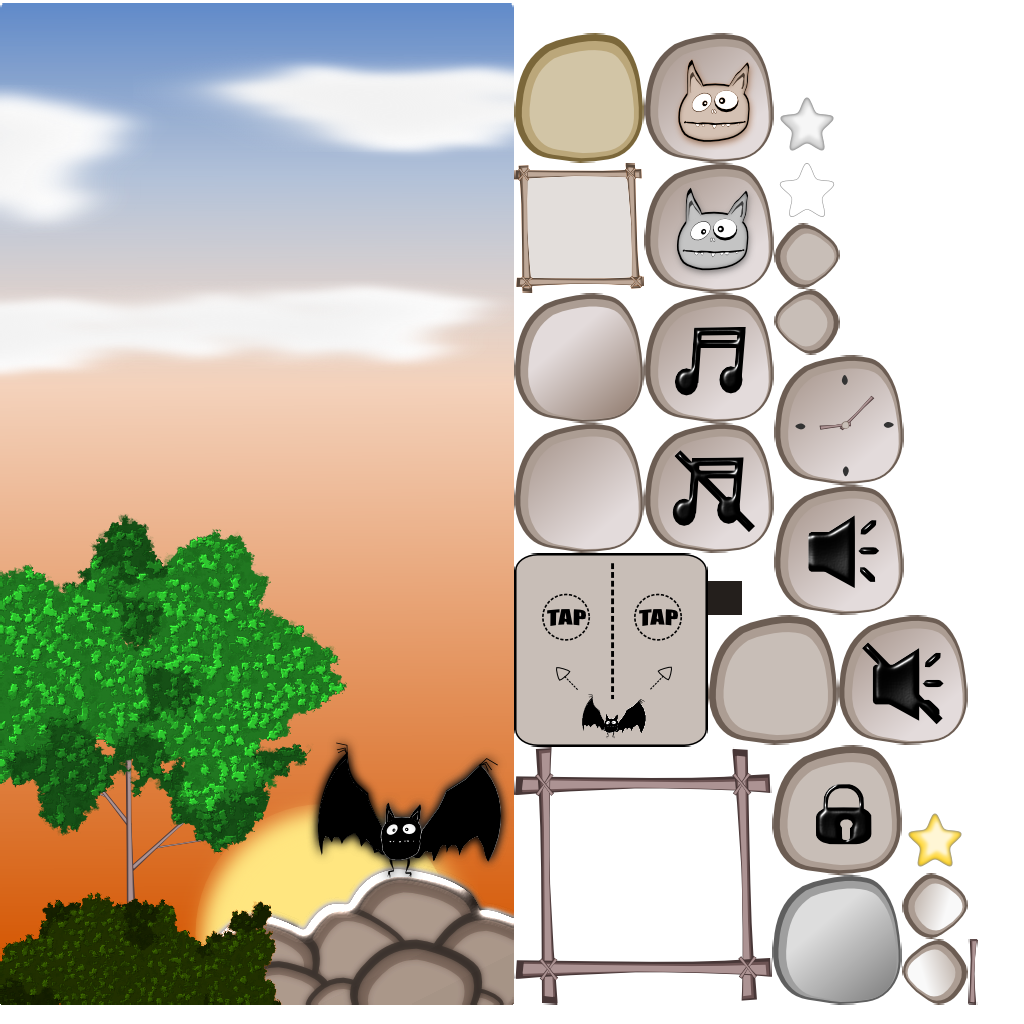
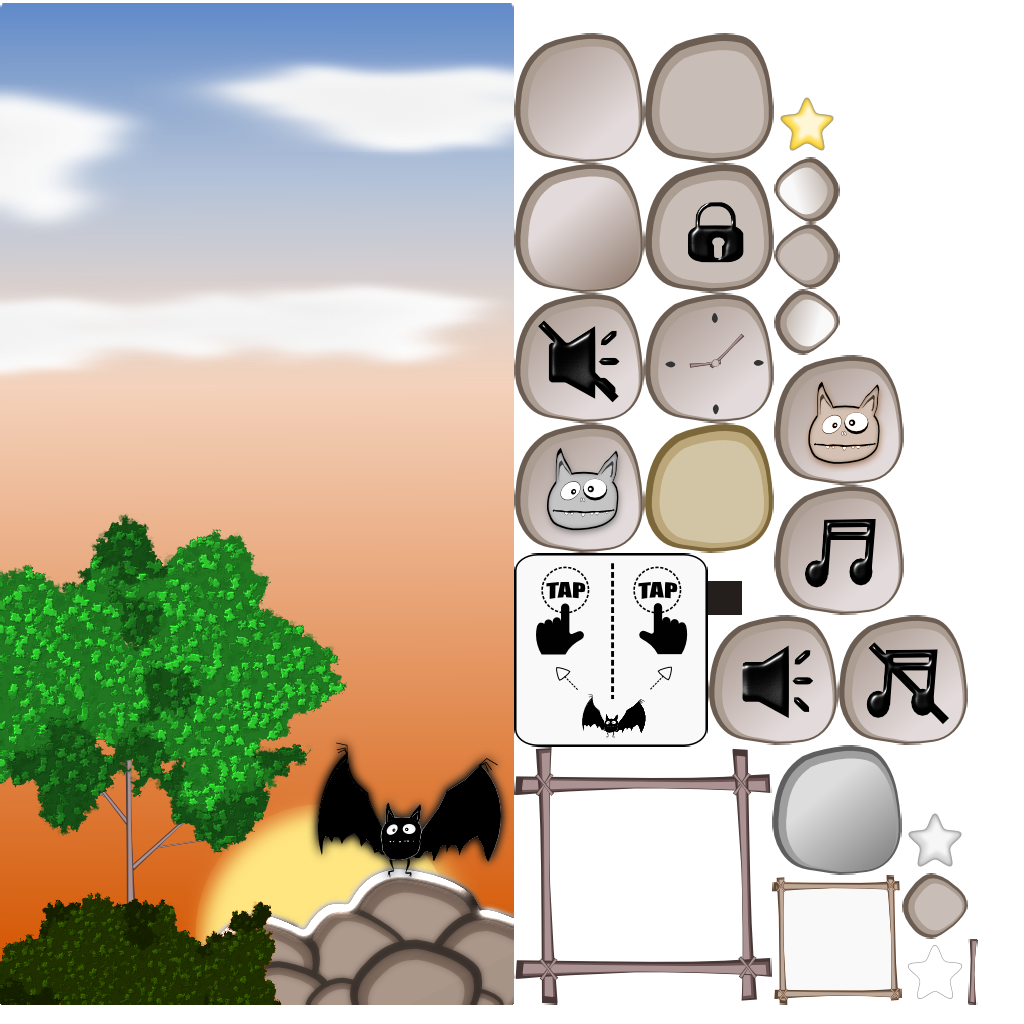
Fix in score screen and updated UI

Changed region(s): [[0.5, 0.0312, 0.9688, 1.0], [0.7812, 0.375, 0.875, 0.4688]]

diff --git a/core/src/com/mpv/screens/stages/LevelStage.java b/core/src/com/mpv/screens/stages/LevelStage.java
@@ -4,7 +4,6 @@ import com.badlogic.gdx.Input.Keys;
 import com.badlogic.gdx.scenes.scene2d.InputEvent;
 import com.badlogic.gdx.scenes.scene2d.InputListener;
 import com.badlogic.gdx.scenes.scene2d.Stage;
-import com.badlogic.gdx.scenes.scene2d.ui.Button;
 import com.badlogic.gdx.scenes.scene2d.ui.ButtonGroup;
 import com.badlogic.gdx.scenes.scene2d.ui.Image;
 import com.badlogic.gdx.scenes.scene2d.ui.Table;
@@ -12,7 +11,6 @@ import com.badlogic.gdx.scenes.scene2d.ui.TextButton;
 import com.badlogic.gdx.scenes.scene2d.ui.Widget;
 import com.badlogic.gdx.scenes.scene2d.utils.ClickListener;
 import com.mpv.data.Assets;
-import com.mpv.data.Const;
 import com.mpv.data.GVars;
 import com.mpv.data.Settings;
 import com.mpv.game.world.GameObject;
@@ -24,12 +22,12 @@ public class LevelStage extends Stage {
 	
 	public LevelStage() {
 		super();
-		float buttonSize=Const.PLAYER_SIZE*GVars.BOX_TO_WORLD/1.6f;
+		float buttonSize=getWidth()/6f;
 		Table mainTable = new Table();
 		Table buttonTable = new Table();
 		Widget emptyWidget = new Widget();
-		Button leftButton = new Button(Assets.skin, "arrow-left");
-		Button rightButton = new Button(Assets.skin, "arrow-right");
+		TextButton menuButton = new TextButton("Menu", Assets.skin, "default");
+		TextButton playButton = new TextButton("Play", Assets.skin, "default");
 		
 		//Debug
 		//mainTable.debug();
@@ -44,9 +42,9 @@ public class LevelStage extends Stage {
 		//left/right buttons
 		Table controlTable = new Table();
 			
-		controlTable.add(leftButton).size(buttonSize).left();
+		controlTable.add(menuButton).size(buttonSize * 1.6f, buttonSize).left();
 		controlTable.add(emptyWidget).width(buttonSize);
-		controlTable.add(rightButton).size(buttonSize).right();
+		controlTable.add(playButton).size(buttonSize * 1.6f, buttonSize).right();
 		mainTable.add(controlTable).row();
 		mainTable.add(emptyWidget).height(buttonSize).row();
 		mainTable.add(buttonTable).row();
@@ -74,7 +72,7 @@ public class LevelStage extends Stage {
 			}
 		});
 		
-		rightButton.addListener(new ClickListener(){
+		playButton.addListener(new ClickListener(){
 			public void clicked(com.badlogic.gdx.scenes.scene2d.InputEvent event, float x, float y) {
 				//super.touchDown(event, x, y, pointer, button);
 				if (tmpIndex != GameObject.mapIndex) {
@@ -84,7 +82,7 @@ public class LevelStage extends Stage {
 				GVars.app.setScreen(GVars.app.gameScreen);
 			}
 		});
-		leftButton.addListener(new ClickListener(){
+		menuButton.addListener(new ClickListener(){
 			public void clicked(com.badlogic.gdx.scenes.scene2d.InputEvent event, float x, float y) {
 				//super.touchDown(event, x, y, pointer, button);
 				GVars.app.setScreen(GVars.app.menuScreen);

diff --git a/core/src/com/mpv/screens/ScoresScreen.java b/core/src/com/mpv/screens/ScoresScreen.java
@@ -49,7 +49,7 @@ public class ScoresScreen implements Screen {
         table1.add(scoresTable).width(stage.getWidth()/1.1f).row();
         //scoresTable.setFillParent(true);
         scoresTable.setBackground(Assets.skin.getDrawable("edit"));
-		final Button buttonExit = new Button(Assets.skin, "arrow-right");
+		final TextButton buttonExit = new TextButton("Menu", Assets.skin, "default");
 		final TextField textField = new TextField(Settings.name, Assets.skin);
 		textField.setMaxLength(10);
 		scoresTable.add(new Label("High scores", Assets.skin, "default")).row();
@@ -58,11 +58,11 @@ public class ScoresScreen implements Screen {
         scoresTable.add(widget).height(itemSize).row();
         scoresTable.add(label1).height(itemSize/2).row();
         table1.add(widget).height(itemSize/4).row();
-        table1.add(buttonExit).size(buttonSize);
+        table1.add(buttonExit).size(buttonSize * 1.6f, buttonSize);
         
         stage.addActor(table1);
-        nameDialog = new Dialog("", Assets.skin, "dialog");
-        nameDialog.getContentTable().add("New score!").row();
+        nameDialog = new Dialog("", Assets.skin, "default");
+        nameDialog.getContentTable().add("Your name:").row();
         nameDialog.getContentTable().add(textField).height(itemSize).width(buttonSize*3);
         nameDialog.getButtonTable().add(okButton).size(buttonSize);
         //nameDialog.button(okButton, true);

diff --git a/core/src/com/mpv/data/Settings.java b/core/src/com/mpv/data/Settings.java
@@ -11,7 +11,7 @@ import com.badlogic.gdx.Gdx;
 public class Settings {
 	 public static boolean soundEnabled = true;
      public static boolean musicEnabled = true;
-     public final static Integer[] highscores = new Integer[] {10000, 9000, 8000, 7000, 1000};
+     public final static Integer[] highscores = new Integer[] {10000, 9000, 8000, 7000, 6000};
      public final static String[] scorenames = new String[] {"Cartman", "Kyle", "Kenny", "Stan", "Butters"};
      public final static Integer[] points = new Integer[] 
     		 				{0, 0, 0 ,0, 
@@ -70,6 +70,10 @@ public class Settings {
      }
 
      public static void addScore (String name, int score) {
+    	 	 for (int i = 0; i < 5; i++) {
+    	 		 if (highscores[i] == score && scorenames[i].equals(name))
+    	 			 return;
+    	 	 }
              for (int i = 0; i < 5; i++) {
                      if (highscores[i] < score) {
                              for (int j = 4; j > i; j--) {
